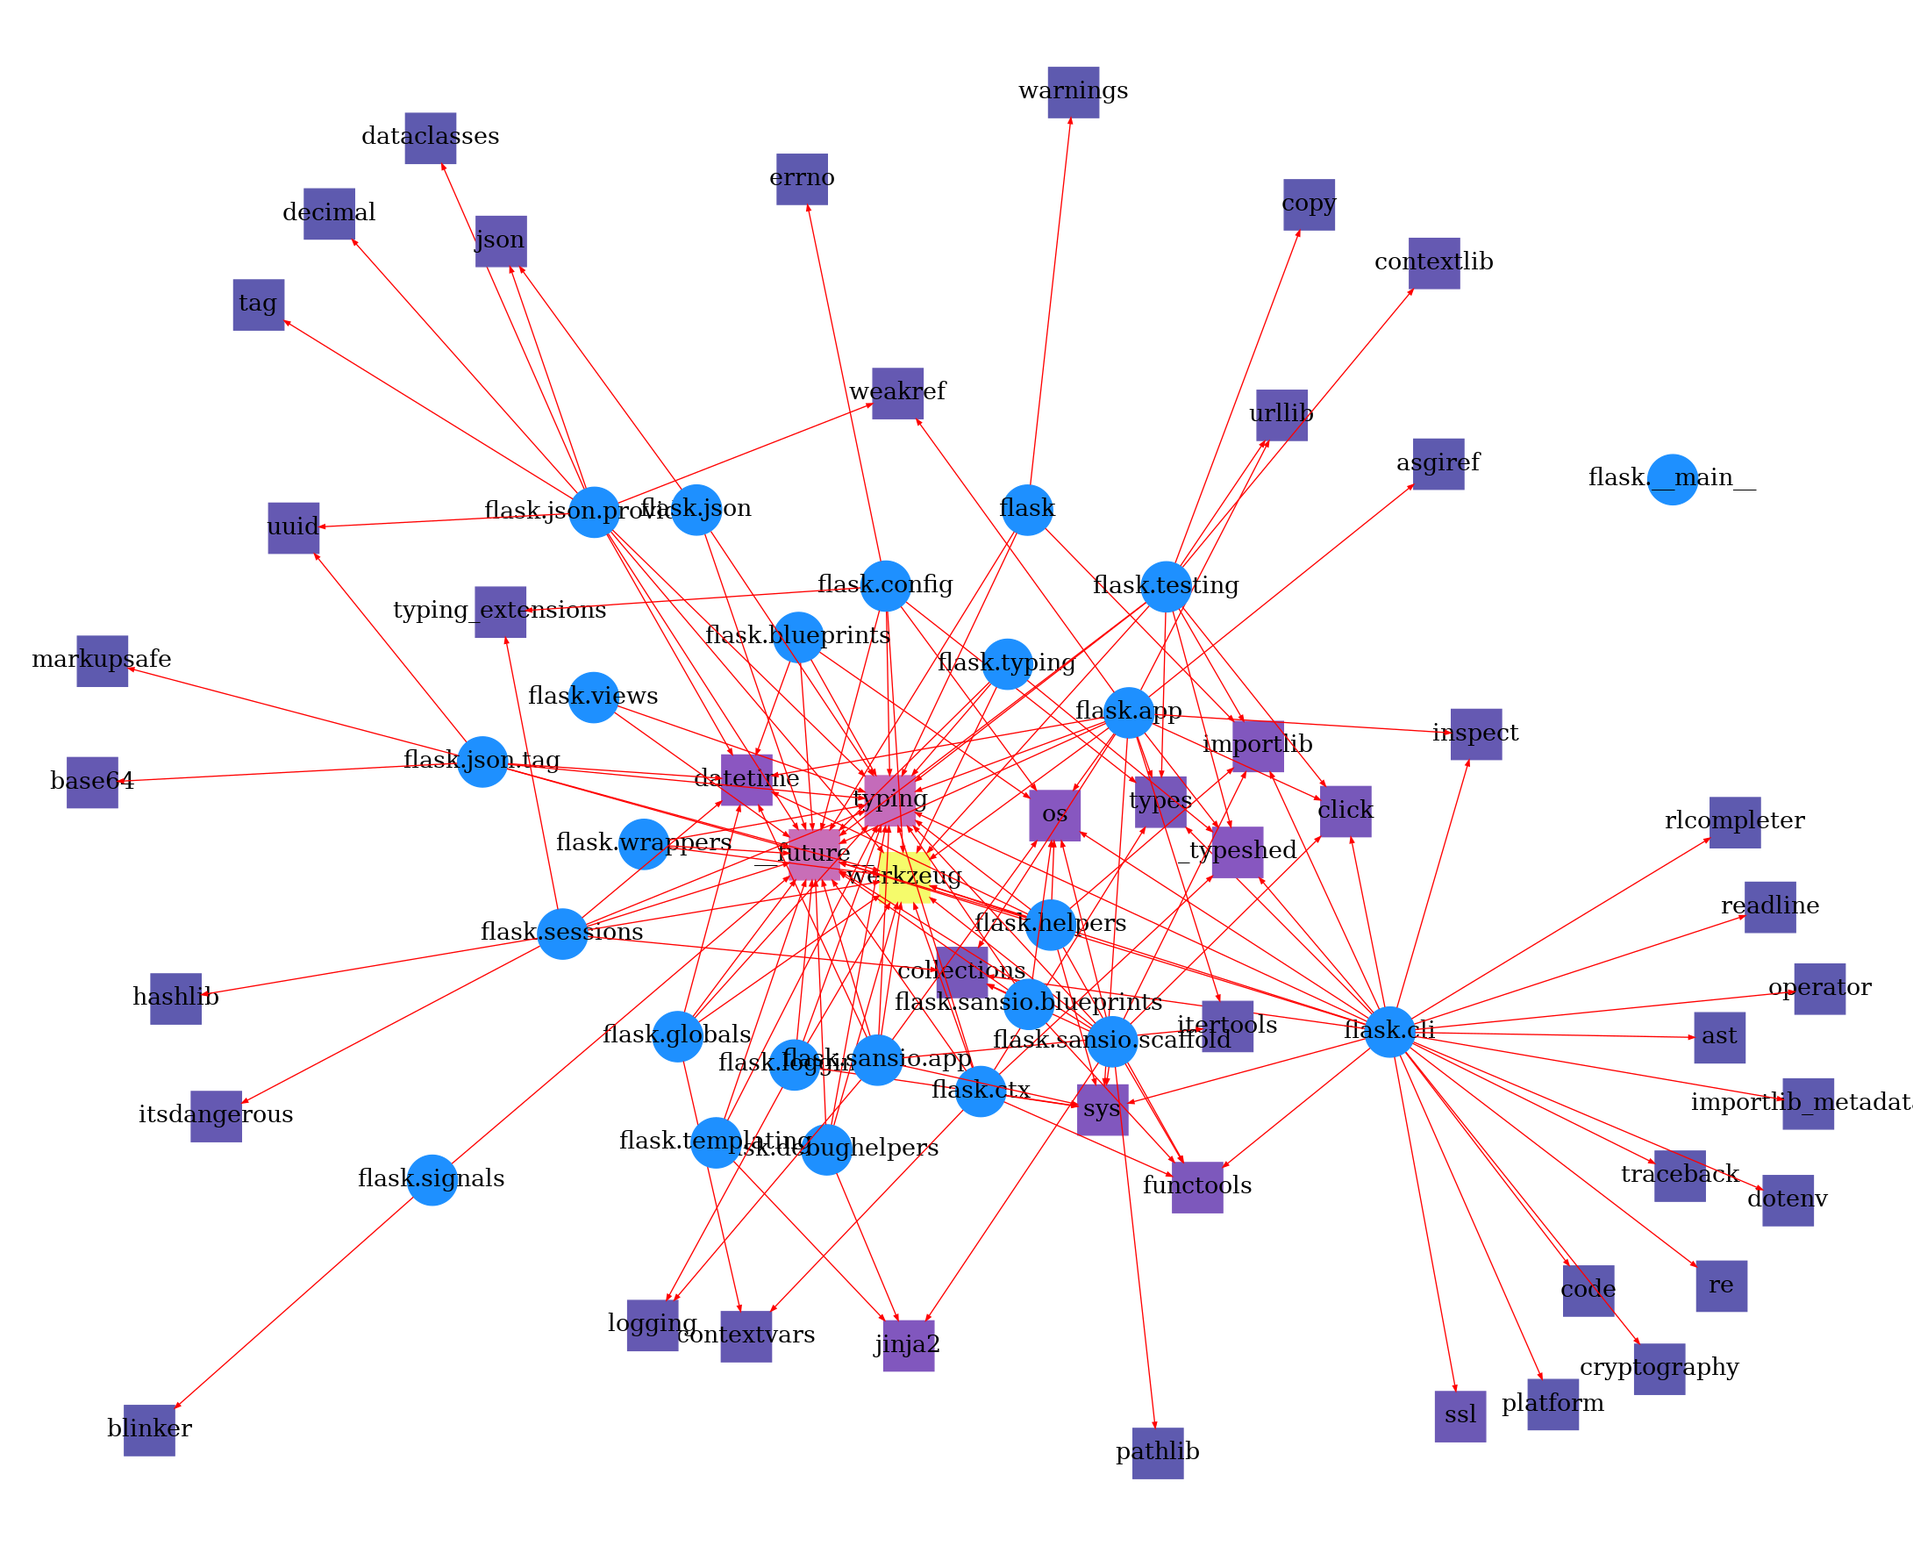
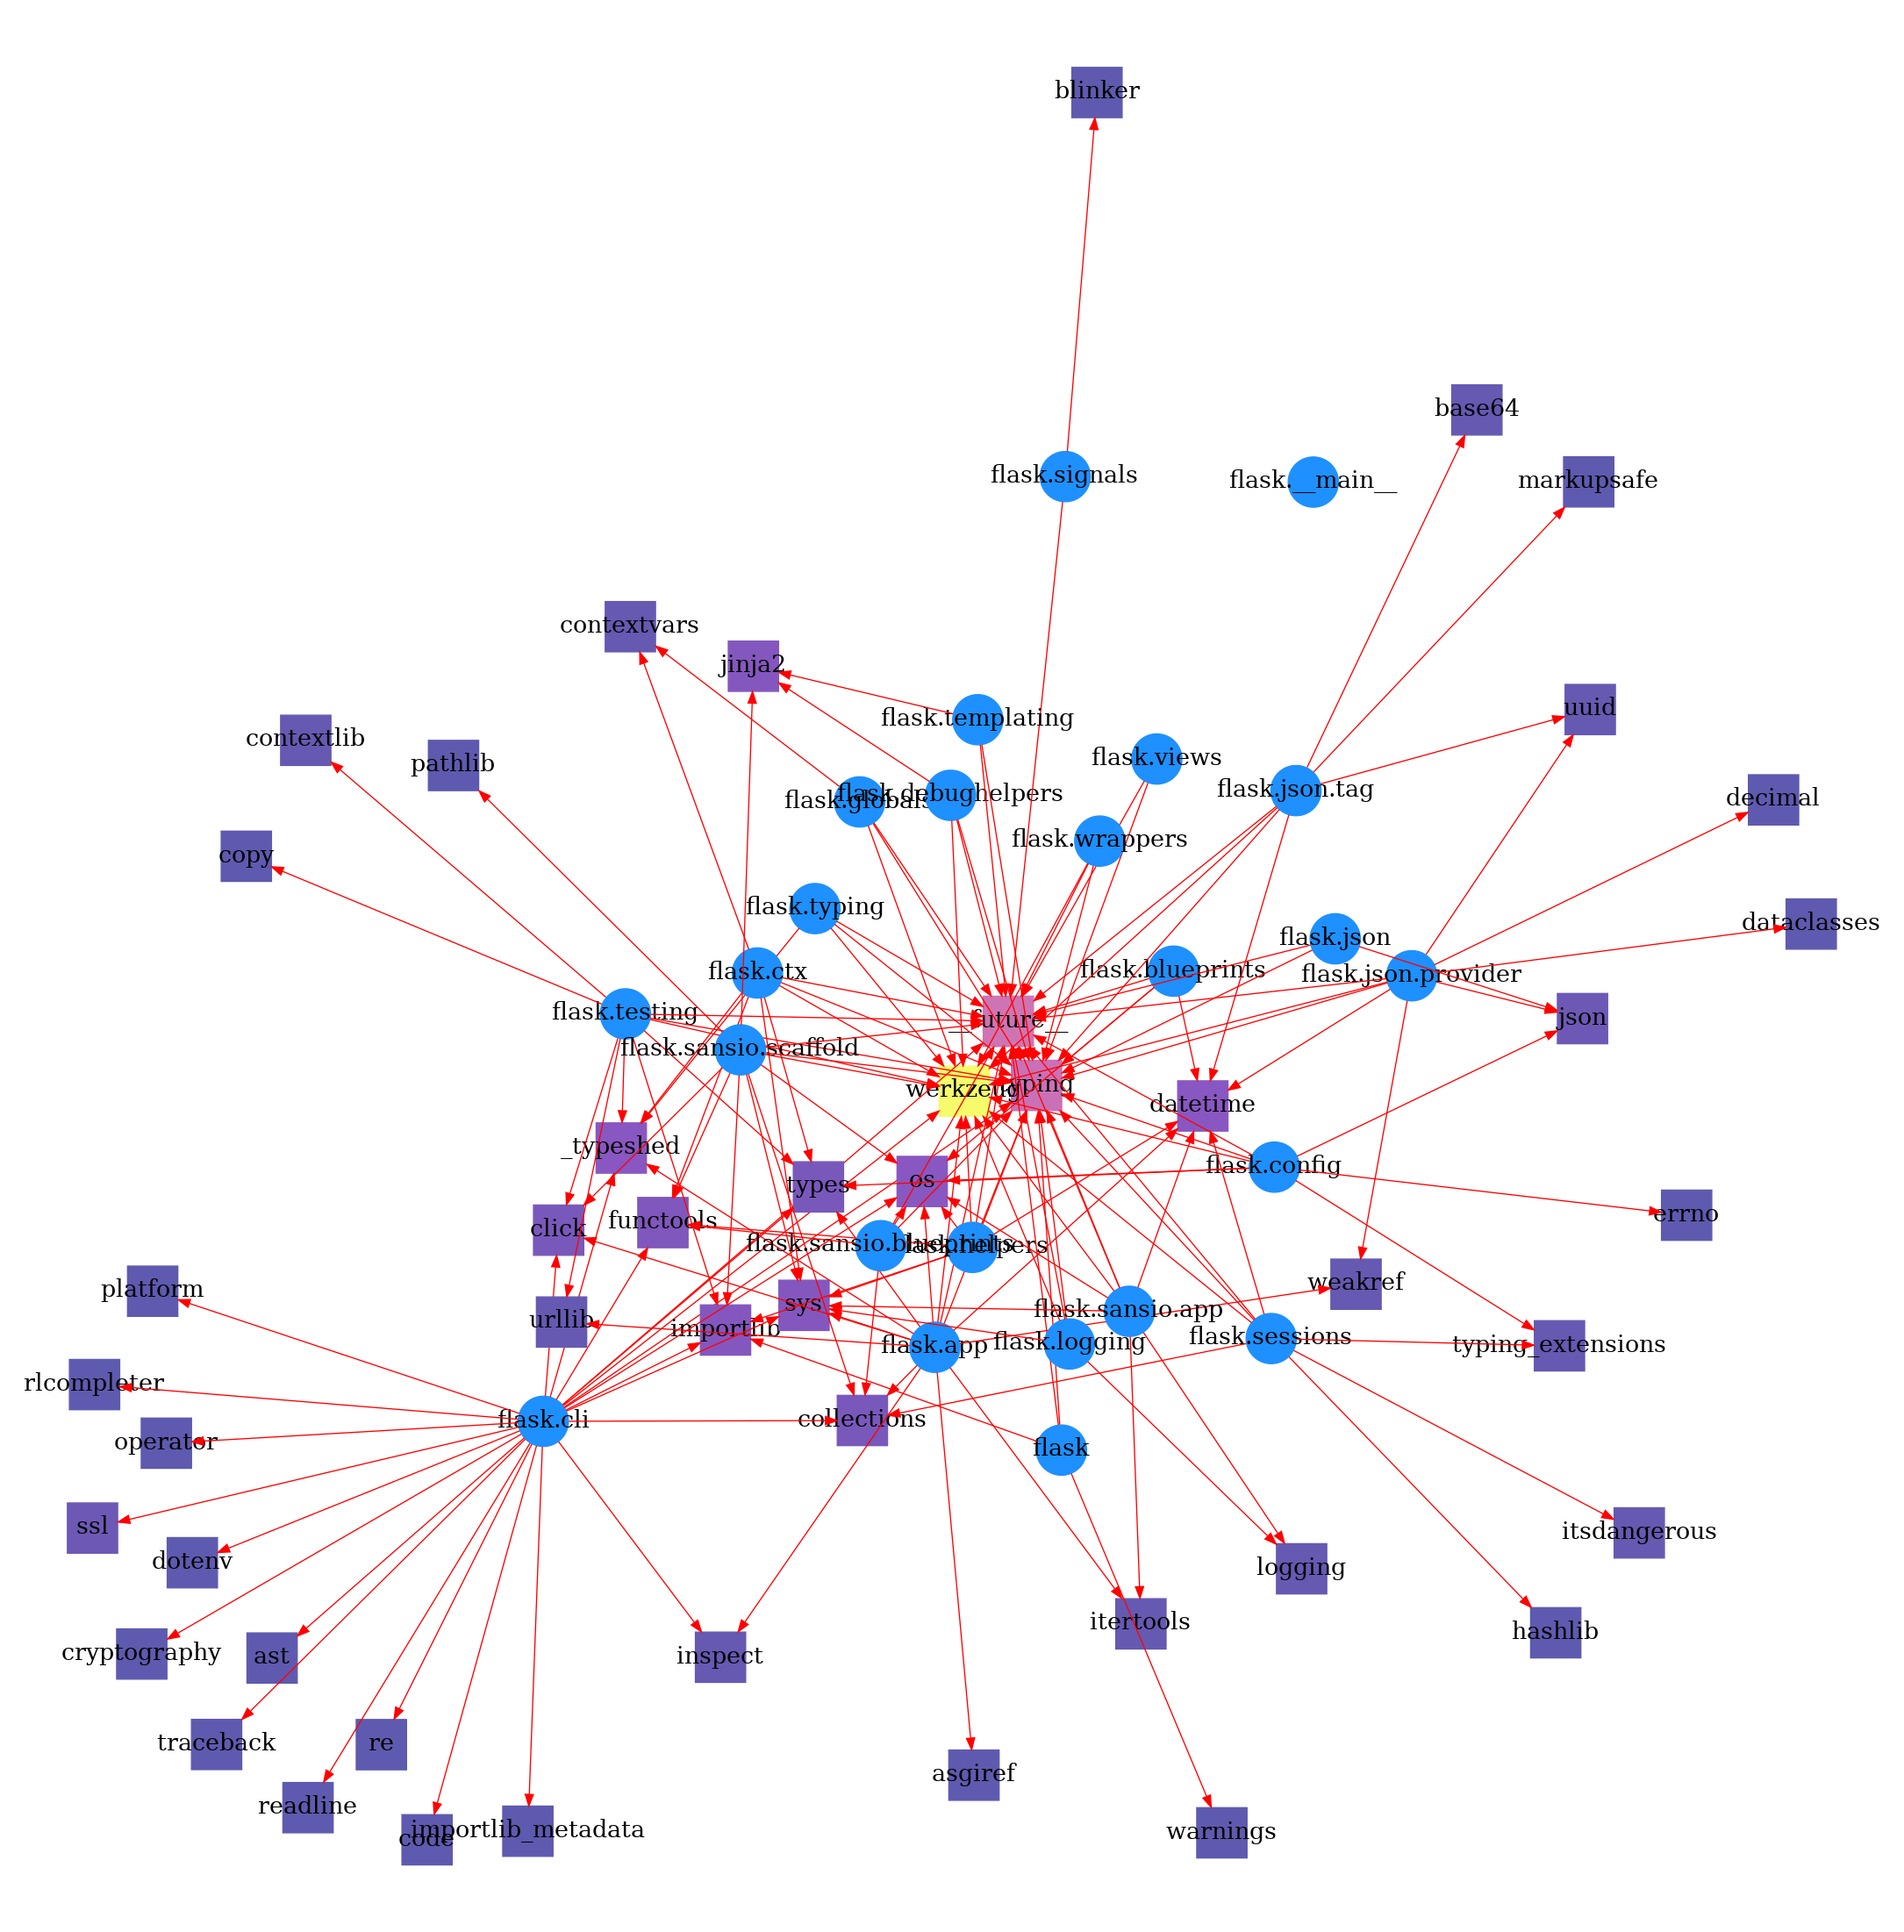
repo cleanup

diff --git a/visualizer.py b/visualizer.py
@@ -126,6 +126,7 @@ class ModuleVisualizer:
         node_size_adjuster=1,
         fontsize=14,
         padding=0.8,
+        arrow_head_size=1,
         **kwargs,
     ):
         graph = pgv.AGraph(
@@ -209,7 +210,7 @@ class ModuleVisualizer:
                         module.id,
                         weight=1,
                         color="blue",
-                        arrowsize=0.5,
+                        arrowsize=arrow_head_size,
                     )
                 if (
                     module.mod_type == ModuleTypes.EXTERNAL
@@ -220,7 +221,7 @@ class ModuleVisualizer:
                         module.id,
                         weight=1,
                         color="red",
-                        arrowsize=0.5,
+                        arrowsize=arrow_head_size,
                     )
 
         graph.layout(prog=graph_layout)

diff --git a/load.py b/load.py
@@ -143,7 +143,7 @@ class RepoLoader:
             self.clone_path.mkdir(exist_ok=True, parents=True)
         is_empty = not os.listdir(self.clone_path)
         if is_empty:
-            Repo.clone_from(repo_url, self.clone_path)
+            Repo.clone_from(self.repo_url, self.clone_path)
 
         self.files = self._load_python_files(self.src_path)
         for file in self.files:

diff --git a/run.py b/run.py
@@ -49,5 +49,6 @@ vis.visualize(
     # ext_cmap="gnuplot",
     ext_color="firebrick1",
     fontsize=25,
+    arrow_head_size=0.5,
     # rankdir="LR",
 )
